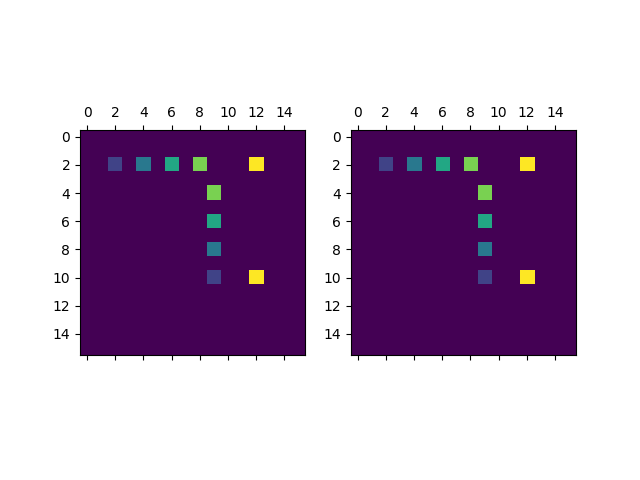
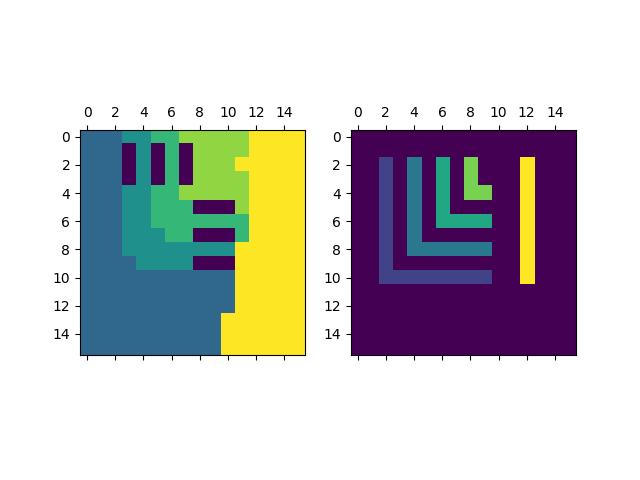
time to stop

Changed region(s): [[0.125, 0.25, 0.5, 0.75], [0.5938, 0.3438, 0.75, 0.5938], [0.8125, 0.3438, 0.8438, 0.5625]]

diff --git a/frouting/evolution.py b/frouting/evolution.py
@@ -8,10 +8,15 @@ import copy
 import math
 import matplotlib.pyplot as plt
 
-import queue  
+from collections import deque
 from collections import defaultdict
 from collections import namedtuple
 from random import shuffle
+from operator import mul
+from functools import reduce
+import math
+
+import statistics
 
 
 def print_stage(text, row_size=80):
@@ -22,6 +27,8 @@ def print_stage(text, row_size=80):
 
 
 def mystr(x):
+    if type(x) is list:
+        x = str(x)
     return '  .' if x == None else f'{x:>3}'
 
 
@@ -31,9 +38,8 @@ def print_array(a):
 
 ####
 
-def boxed_labels(data, node):
-    rows = len(data)
-    cols = len(data[0])
+def boxed_labels(layout, node):
+    data, rows, cols = layout
     r,c = node
     nb = [
         data[i][j]
@@ -46,9 +52,8 @@ def boxed_labels(data, node):
     ]
     return nb
 
-def crossed_labels(data, node):
-    rows = len(data)
-    cols = len(data[0])
+def crossed_labels(layout, node):
+    data, rows, cols = layout
     r,c = node
     nb = [
         data[i][j]
@@ -60,13 +65,198 @@ def crossed_labels(data, node):
     ]
     return nb
 
+
+def crossed_nodes(layout, node):
+    data, rows, cols = layout
+    r,c = node
+    nb = [
+        (i,j)
+        for i,j in [
+            (r-1, c), (r, c-1),
+            (r+1, c), (r, c+1),
+        ]
+        if (0 <= i < rows) and (0 <= j < cols)
+    ]
+    return nb
+
+
 def scan_target_set(data):
     result = set()
     for rows in data:
         for value in rows:
+            if type(value) is not int:
+                raise TypeError(f'Data is {type(value)}')
             if value > 0:
                 result.add(value)
     return result
+
+
+fig_counter = 0
+def save_figure(layout):
+    global fig_counter
+    fig_counter += 1
+    data, rows, cols = layout
+    fig, ax0 = plt.subplots(1)
+    ax0.matshow(data)
+    fig.savefig(f'solutions/evo_data_{fig_counter:>03}.png')
+    plt.close()
+
+def scan_target_nodes(layout, targets):
+    data, rows, cols = layout
+    nodes = defaultdict(list)
+
+    for i, row in enumerate(data):
+        for j, value in enumerate(row):
+            node = (i, j)
+            if value in targets:
+                nodes[value].append(node)
+
+    return nodes
+
+def inflate_step(layout, target_nodes):
+    data, rows, cols = layout
+    mdata = copy.deepcopy(data)
+    dirty_flag = False
+
+    updates = defaultdict(list)
+
+    for i, row in enumerate(data):
+        for j, value in enumerate(row):
+            node = (i, j)
+            if value == 0:  ## open space
+                nbs = [l for l in crossed_labels(layout, node) if l > 0]
+                nearbys = set(nbs)
+                if len(nearbys) == 1 and len(nbs) == 1:
+                    updates[node].append(nearbys.pop())
+
+    for node, lvalue in updates.items():
+        i, j = node
+        if len(lvalue) != 1:
+            print('more updates: ', lvalue)
+        value = lvalue[0]
+
+        cn = crossed_nodes(layout, node)
+        for cnode in cn:
+            if cnode in updates:
+                mdata[i][j] = WALL_MARK
+            else:
+                mdata[i][j] = value
+
+    return (mdata, rows, cols), bool(updates)
+
+
+def alternator(left, right):
+    count = 0
+    while True:
+        yield left if count % 2 == 0 else right
+        count += 1
+
+
+def distance(left, right):
+    left_row, left_col = left
+    right_row, right_col = right
+    dist = ((right_row - left_row) ** 2 + (right_col - left_col) ** 2)
+    return int(dist)
+
+
+def nearest_target(node, target_nodes):
+    assert len(target_nodes) > 0
+
+    distances = []
+    for tk, tnodes in target_nodes.items():
+        dd = [ distance(node, tnode) for tnode in tnodes ]
+        dd.sort()
+        middle = int(float(len(dd)) / 1.6180339887498948482)
+        dd = dd[:middle+1]
+        distances.append( (tk, reduce(mul, dd, 1)) )
+
+    distances.sort(key=lambda pair: pair[1])
+
+    value, dist = distances[0]
+    return value, dist
+
+def grab_same_nodes(layout, value):
+    data, rows, cols = layout
+
+    nodes = []
+
+    for i, row in enumerate(data):
+        for j, v in enumerate(row):
+            node = (i, j)
+            if v == value:
+                nodes.append(node)
+
+    return nodes
+
+def group_nodes_in_regions(layout, nodes):
+    region_id = 0
+    regions = defaultdict(list)
+    remaining_nodes = deque(nodes)
+    queue = deque()
+
+    while len(remaining_nodes):
+        node = remaining_nodes.popleft()
+        visited = set()
+        queue.append(node)
+        while len(queue):
+            vnode = queue.popleft()
+            visited.add(vnode)
+
+            nbs = [n for n in crossed_nodes(layout, vnode) if n in remaining_nodes and n not in visited and n not in queue]
+            queue.extend(nbs)
+
+        regions[region_id].extend(list(visited))
+        region_id += 1
+        remaining_nodes = deque(set(remaining_nodes) - visited)
+
+    return regions
+
+
+def evolve(layout, target_nodes):
+    data, rows, cols = layout
+
+    updates = defaultdict(list)
+
+    for i, row in enumerate(data):
+        for j, value in enumerate(row):
+            node = (i, j)
+            if value == 0:
+                nt_val, dist = nearest_target(node, target_nodes)
+                nbs = set(boxed_labels(layout, node)) - {0, WALL_MARK}
+                if len(nbs) > 1:
+                    updates[node].append( WALL_MARK )
+                    pass
+                else:
+                    updates[node].append( nt_val )
+
+    # perform updates
+    mdata = copy.deepcopy(data)
+    for node, update in updates.items():
+        i, j = node
+        mdata[i][j] = update.pop()
+
+    return mdata
+
+def evolve_back(layout, target_nodes):
+    data, rows, cols = layout
+
+    updates = defaultdict(list)
+
+    for i, row in enumerate(data):
+        for j, value in enumerate(row):
+            node = (i, j)
+            if value == 0:
+                nt_val, dist = nearest_target(node, target_nodes)
+                updates[node].append( nt_val )
+
+    # perform updates
+    mdata = copy.deepcopy(data)
+    for node, update in updates.items():
+        i, j = node
+        mdata[i][j] = update.pop()
+
+    return mdata
+
 
 WALL_MARK = -1
 
@@ -74,10 +264,10 @@ def main():
 
     data_files = [
         'step_one.csv',
-        'step_one_solved.csv',
+#        'step_one_solved.csv',
         'step_two.csv',
-        'step_two_solved.csv',
-        'step_three.csv',
+#        'step_two_solved.csv',
+#        'step_three.csv',
     ]
 
     for filename in data_files:
@@ -86,7 +276,16 @@ def main():
         with open(filename, newline='') as csvfile:
             content = csv.reader(csvfile, delimiter=',')
             for row in content:
-                data.append( list(map(lambda x: WALL_MARK if x == 'Z' else int(x), row)) )
+                row_data = list(map(lambda x: WALL_MARK if x == 'Z' else int(x), row))
+                data.append( row_data )
+
+        pair_filename = filename.replace('.csv', '_solved.csv')
+        solved_data = []
+        with open(pair_filename, newline='') as csvfile:
+            content = csv.reader(csvfile, delimiter=',')
+            for row in content:
+                row_data = list(map(lambda x: WALL_MARK if x == 'Z' else int(x), row))
+                solved_data.append( row_data )
 
         original_data = copy.deepcopy(data)
         rows = len(original_data)
@@ -95,11 +294,15 @@ def main():
         assert cols > 1
         print(f'shape: {rows} x {cols}')
 
-        targets = list(scan_target_set(original_data))
+        layout = (data, rows, cols)
+        targets = scan_target_set(data)
+        target_nodes = scan_target_nodes(layout, targets)
+
+        data = evolve(layout, target_nodes)
 
         fig, (ax0, ax1) = plt.subplots(1, 2)
-        ax0.matshow(original_data)
-        ax1.matshow(data)
+        ax0.matshow(data)
+        ax1.matshow(solved_data)
         fig.savefig(f'solutions/evo_{filename.rstrip(".csv")}.png')
 
 
